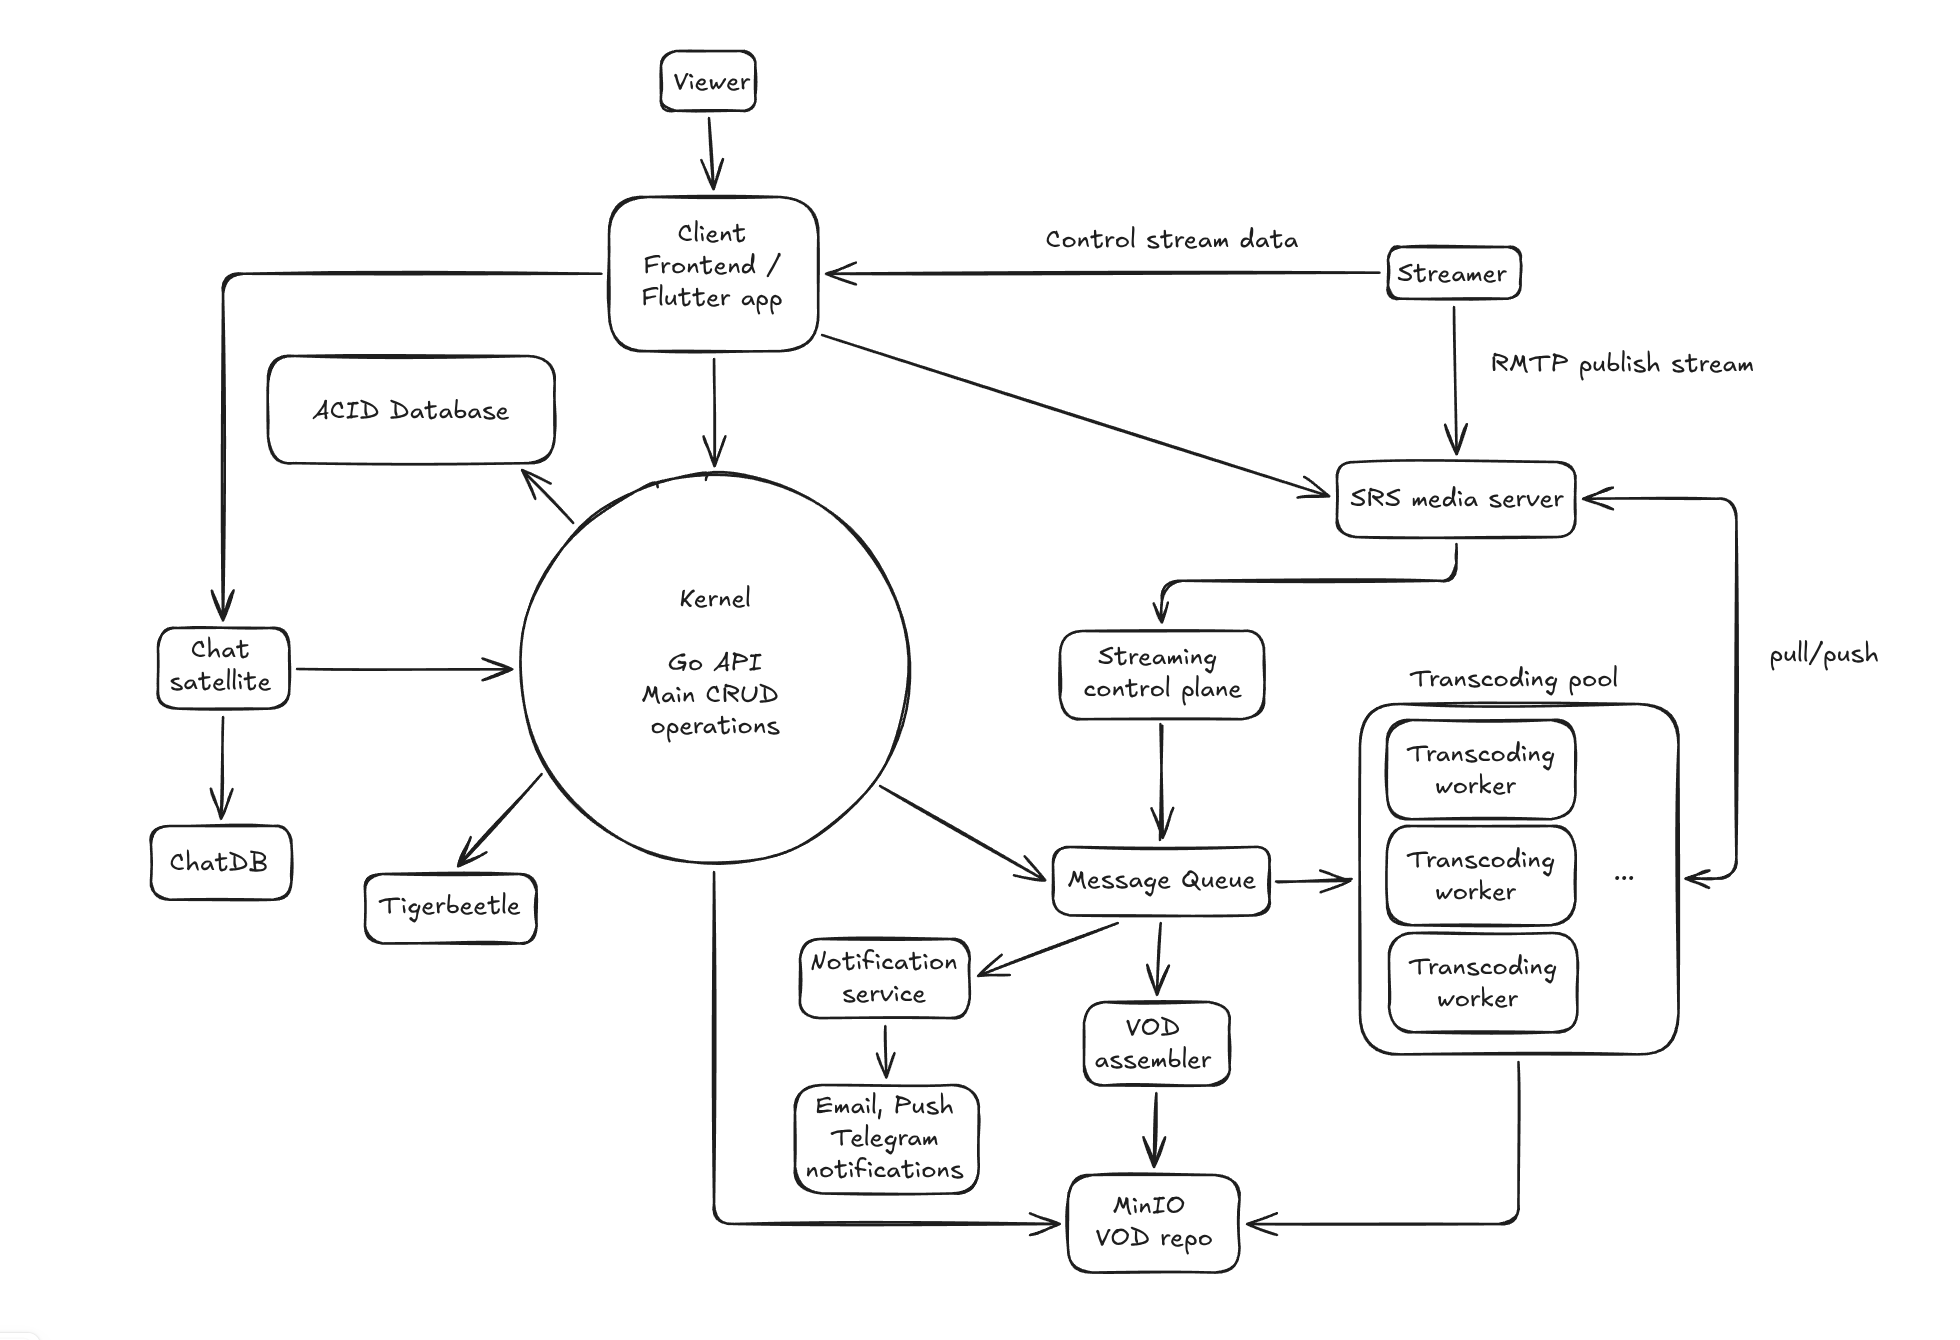
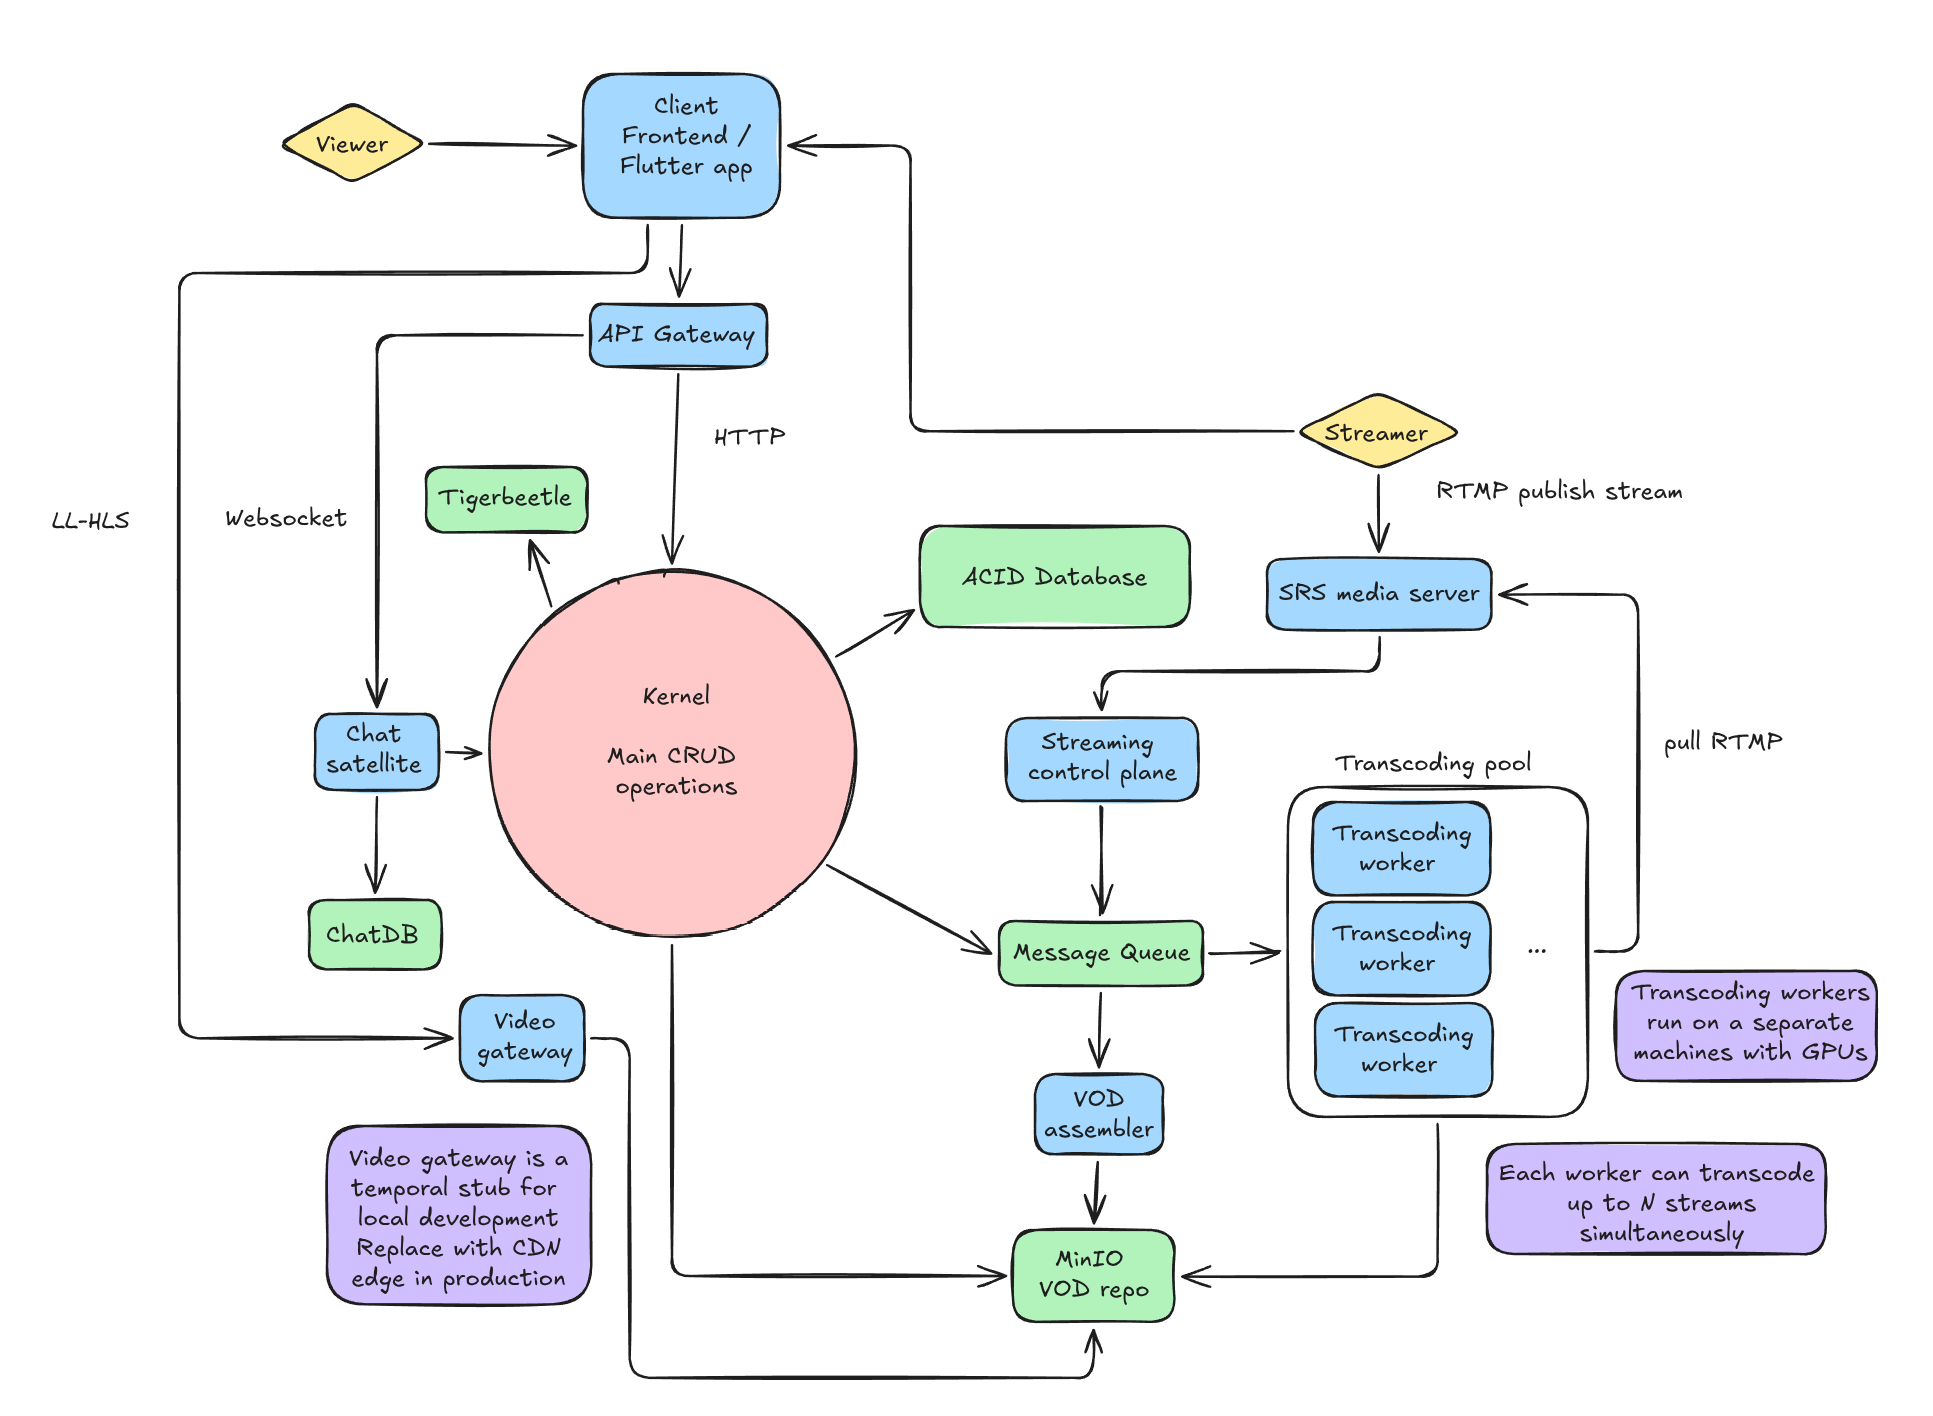
add api gateway, update architecture.png

diff --git a/docs/satellites/api-gateway.md b/docs/satellites/api-gateway.md
@@ -1,0 +1,32 @@
+# API Gateway
+
+## Overview
+
+The API Gateway is the single entry point for all client traffic into the cluster. It sits between the frontend and backend services (Kernel, Chat Satellite), handling routing, SSL termination, rate limiting, and request validation.
+
+## Stack
+
+- **Software:** Nginx
+
+## Responsibilities
+
+- Route HTTP requests to Kernel
+- Proxy WebSocket connections to Chat Satellite
+- SSL/TLS termination
+- Rate limiting and request throttling
+- Request logging and basic metrics
+
+## Routing
+
+| Path prefix      | Upstream        | Notes                 |
+|------------------|-----------------|-----------------------|
+| `/api/*`         | Kernel          | REST API              |
+| `/ws`            | Chat Satellite  | WebSocket upgrade     |
+
+## Why Nginx
+
+- Battle-tested reverse proxy, same stack as Video Gateway
+- Excellent WebSocket proxying support
+- Built-in rate limiting, SSL termination, access logging
+- Low resource usage, high concurrency
+- Simple configuration, easy to replace with Envoy or cloud LB later

diff --git a/docs/architecture.md b/docs/architecture.md
@@ -24,5 +24,15 @@ The system follows a hybrid, so called - orbital architecture. We have kernel - 
 | Financial database     | Tigerbeetle                  | -          |
 | VOD storage            | MinIO                        | -          |
 | Video gateway          | Nginx                        | -          |
+| API Gateway            | Nginx                        | -          |
+
+## Traffic Flow
+
+```
+Client -> Frontend
+Frontend -> API Gateway -> Kernel
+Frontend -> API Gateway -> Chat Satellite
+Streamer -> SRS
+```
 
 Reference `protocols.md` for info on service interactions, `kernel/` for description of kernel and its modules, `satellites/` for descriptions of each satellite and `infra/` for database / third party tools related stuff.

diff --git a/docs/satellites/vod-assembler.md b/docs/satellites/vod-assembler.md
@@ -32,8 +32,8 @@ The assembler does not do heavy transcoding, The main tasks are generating text 
 
 ### Published
 
-| Subject     | Description                                 |
-|-------------|---------------------------------------------|
-| `vod.ready` | Notify Kernel that VOD assembly is complete |
+| Subject     | Description                                  |
+|-------------|----------------------------------------------|
+| `vod.ready` | Notify Kernel that VOD assembly is complete  |
 
 

diff --git a/docs/kernel/overview.md b/docs/kernel/overview.md
@@ -2,7 +2,7 @@
 
 ## Overview
 
-The Kernel is the core of Project Horizon — a Go API built as a modular monolith. It handles all CRUD operations, business logic, and serves as the central coordination point for the system.
+The Kernel is the core of Project Horizon — a Go API built as a modular monolith. It handles all CRUD operations, business logic, and serves as the central coordination point for the system. All client traffic reaches the Kernel through the API Gateway.
 
 ## Language - **Go**
 Go is already in stack for satellites and domain logic is simple enough to not bring heavy backend frameworks like Spring Boot or ASP.NET. Also, I don't want to introduce new runtime platform (JVM/.NET), it will be new building step, new CI/CD pipeline, etc.

diff --git a/docs/satellites/chat-satellite.md b/docs/satellites/chat-satellite.md
@@ -25,7 +25,7 @@ The Chat satellite is a dedicated microservice for real-time chat.
 
 ## WebSocket Protocol
 
-**Connection:** `ws://<host>/ws?token=<jwt>`
+**Connection:** `wss://<host>/ws?token=<jwt>`
 
 ### Events
 